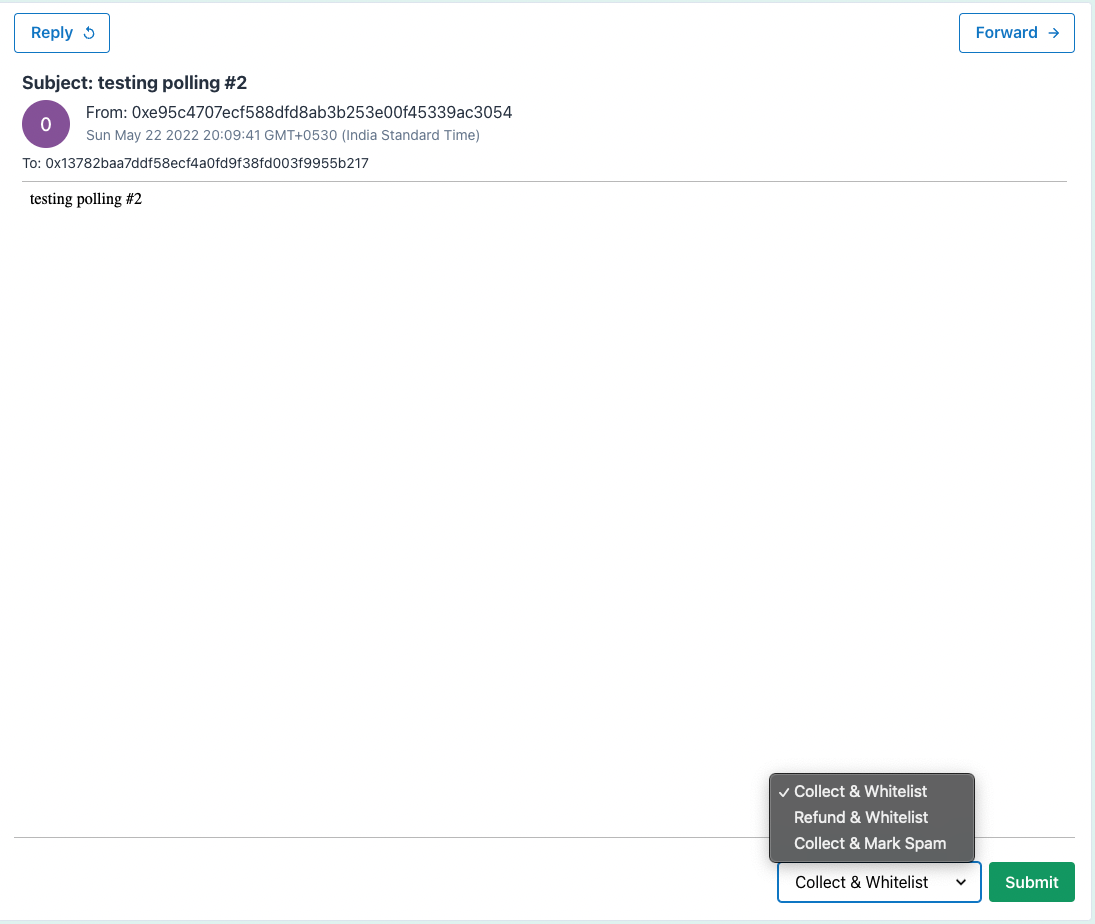
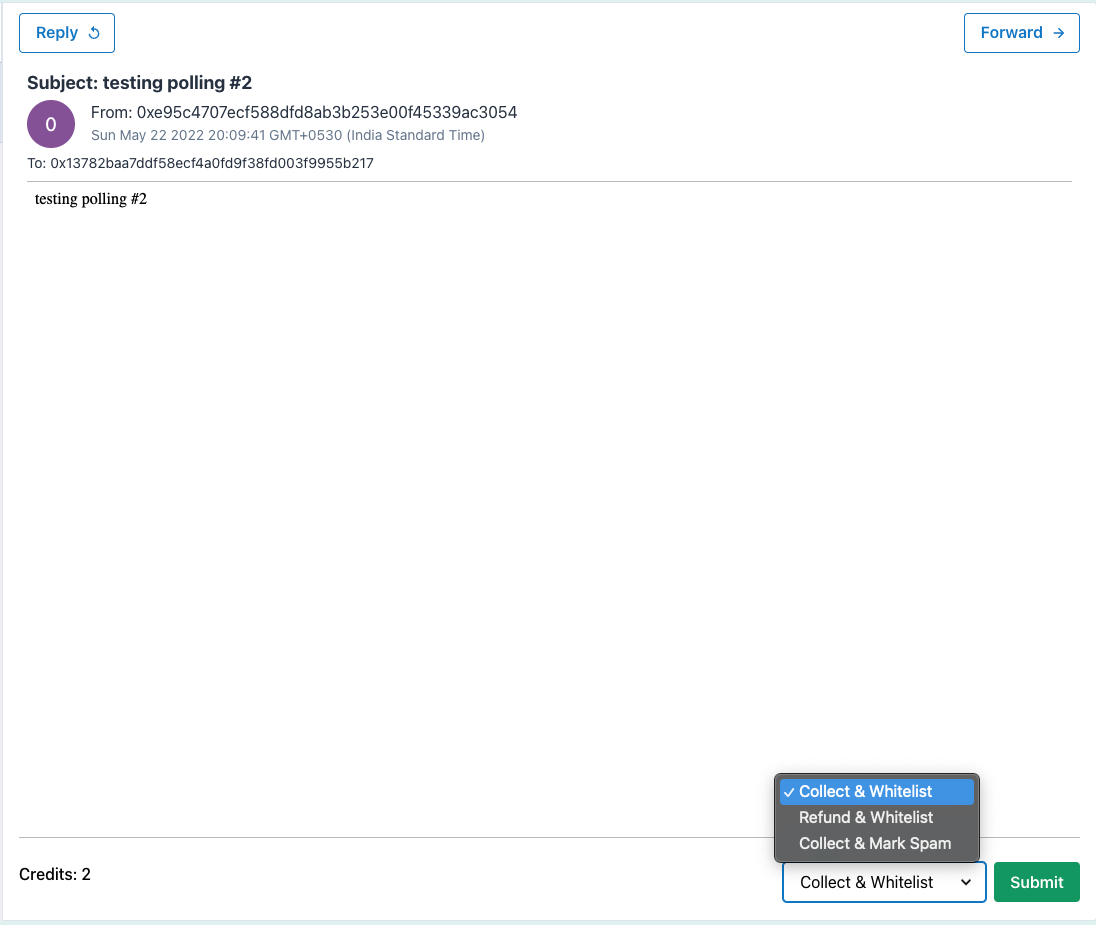
Showing credits in the claim window

diff --git a/components/Email/Email.js b/components/Email/Email.js
@@ -139,23 +139,28 @@ export default function Email() {
 				(<>
 					<hr />
 					<br />
-					<Flex justify='right' wrap='no-wrap' mb={2}>
-						<form id='form' onSubmit={mainActionHandler}>
-							<Stack isInline="true">
-								<FormControl>
-									<Select id="mailAction">
-										<option value='ACCEPT_MAIL'>Collect & Whitelist</option>
-										<option value='REFUND_MAIL'>Refund & Whitelist</option>
-										<option value='SPAM_MAIL'>Collect & Mark Spam</option>
-									</Select>
-								</FormControl>
-								<FormControl>
-									<Button type='submit' variantColor='green'>
-										Submit
-									</Button>
-								</FormControl>
-							</Stack>
-						</form>
+					<Flex justify='space-between' wrap='no-wrap'>
+						<Flex justify='right' wrap='no-wrap' mb={2}>
+							<FormLabel>Credits: {message['credits']}</FormLabel>
+						</Flex>
+						<Flex justify='right' wrap='no-wrap' mb={2}>
+							<form id='form' onSubmit={mainActionHandler}>
+								<Stack isInline="true">
+									<FormControl>
+										<Select id="mailAction">
+											<option value='ACCEPT_MAIL'>Collect & Whitelist</option>
+											<option value='REFUND_MAIL'>Refund & Whitelist</option>
+											<option value='SPAM_MAIL'>Collect & Mark Spam</option>
+										</Select>
+									</FormControl>
+									<FormControl>
+										<Button type='submit' variantColor='green'>
+											Submit
+										</Button>
+									</FormControl>
+								</Stack>
+							</form>
+						</Flex>
 					</Flex>
 				</>)}
 			</>
